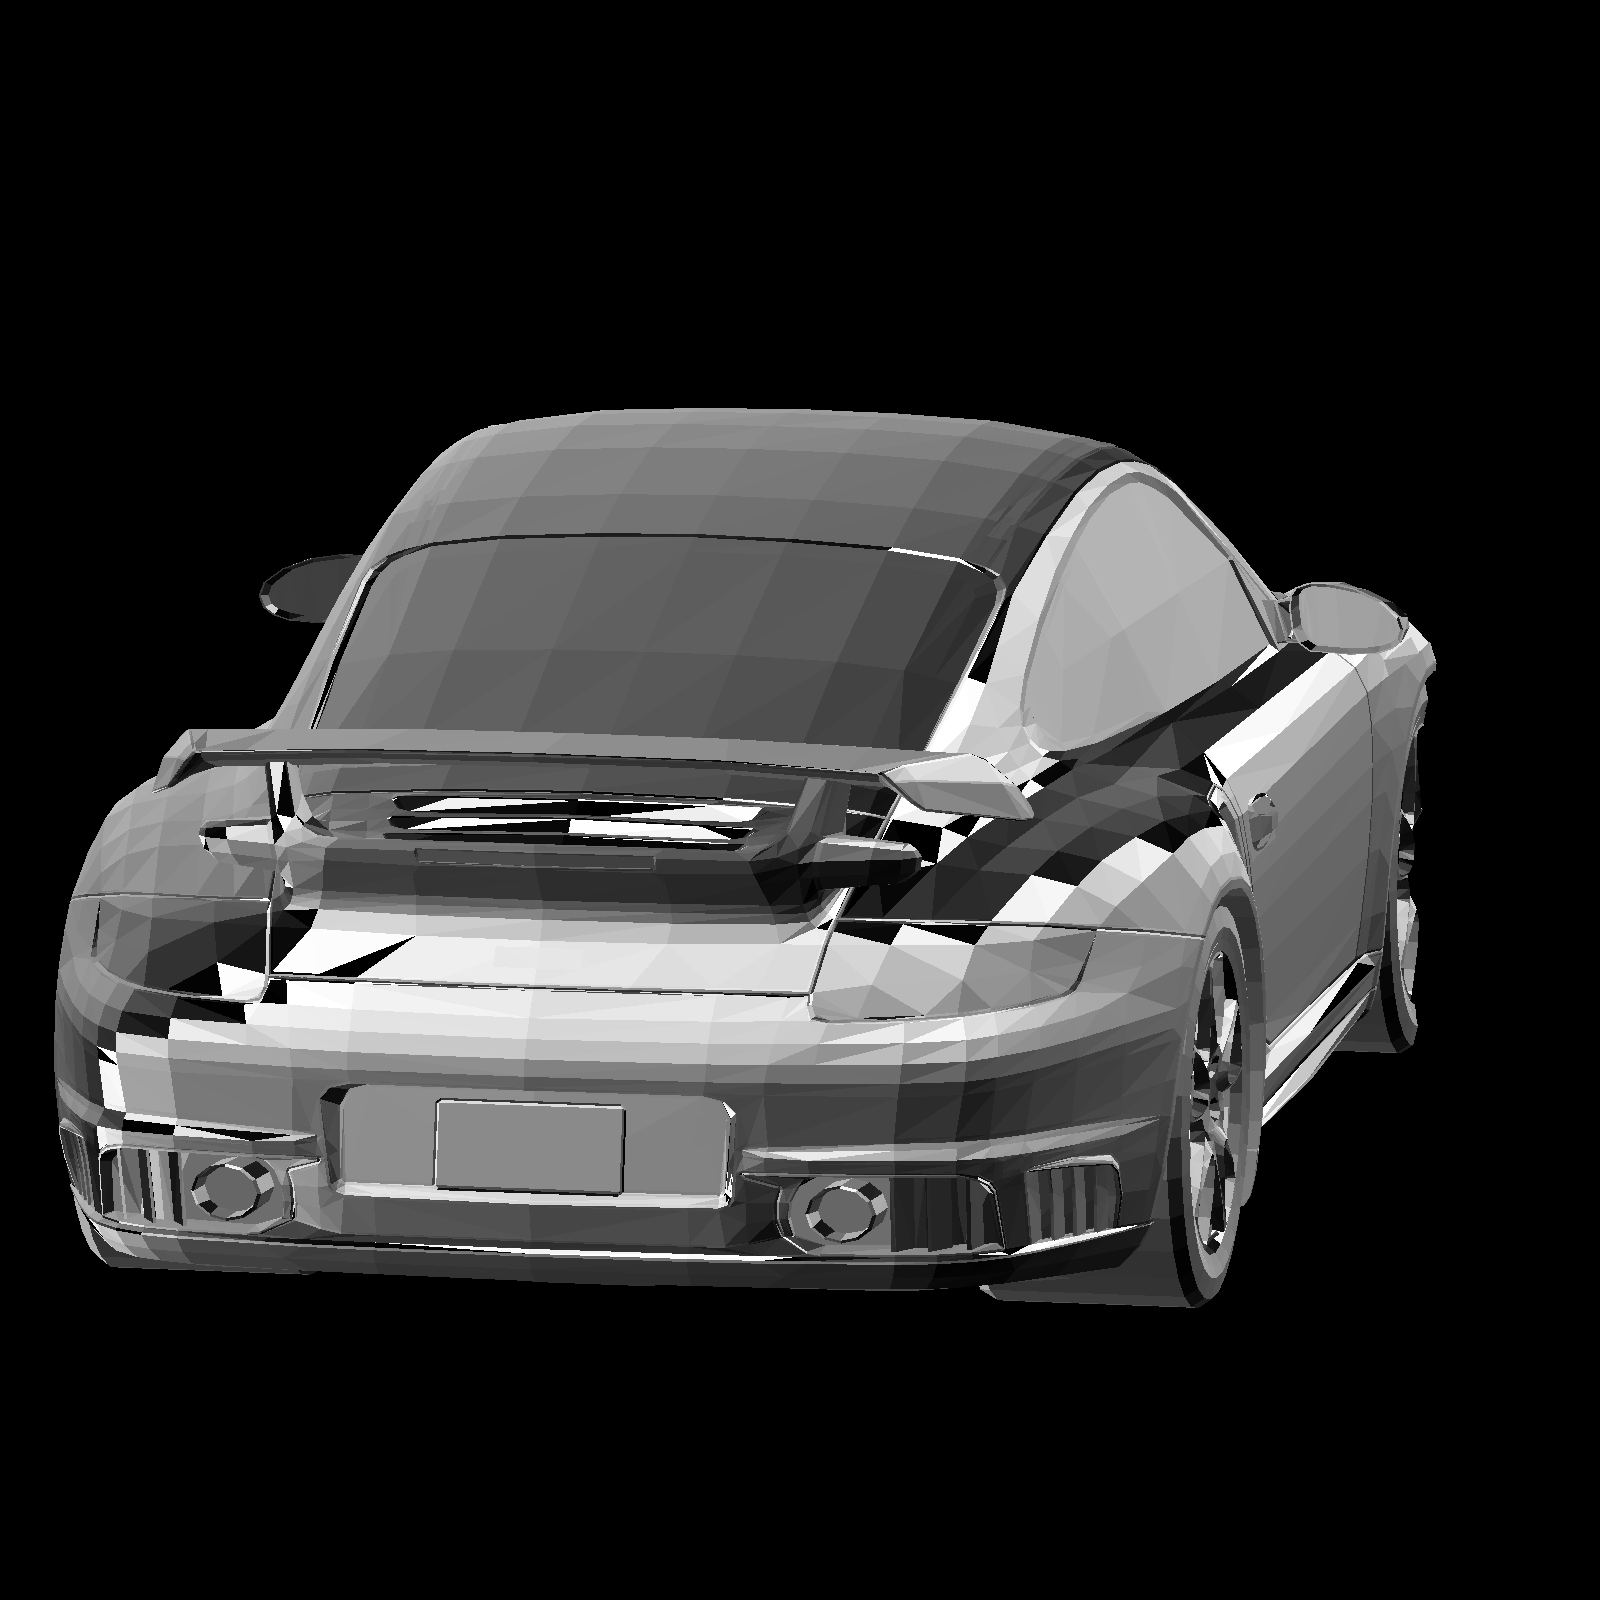
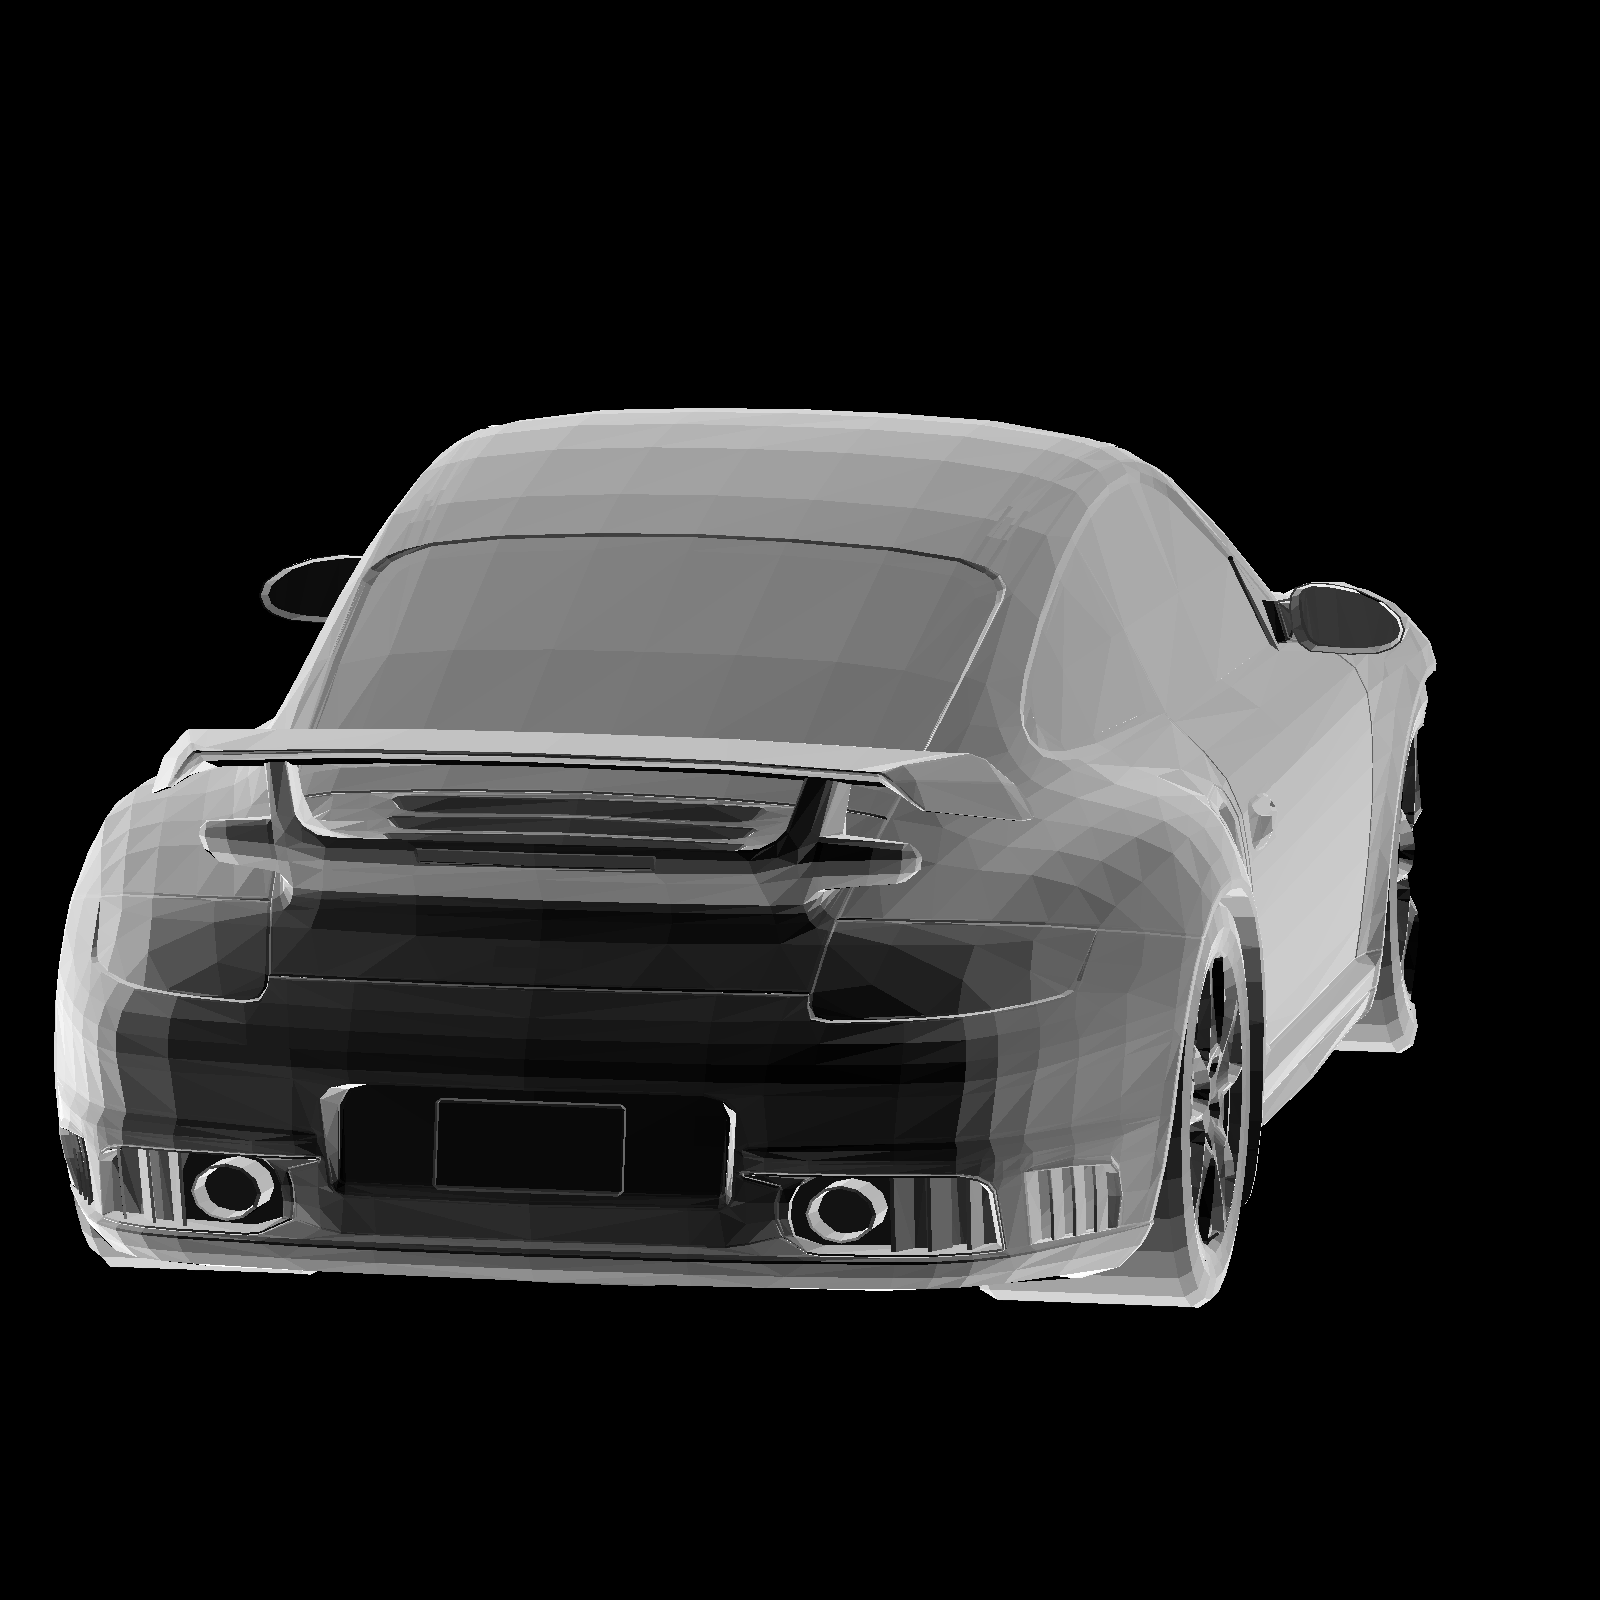
Change light vector and produced image

diff --git a/src/main.rs b/src/main.rs
@@ -22,7 +22,7 @@ fn main() {
     let eye = Vector3::new(6.0, 5.0, 30.0);
     let center = Vector3::new(0.0, 0.0, 0.0);
     let up = Vector3::new(0.0, 1.0, 0.0);
-    let light_vector = Vector3::new(1.0, -1.0, 1.0).normalize();
+    let light_vector = Vector3::new(5.0, 5.0, 20.0).normalize();
 
     render::draw_triangle_mesh(input_file, &mut buffer, depth, &light_vector, &eye, &center, &up);
 
